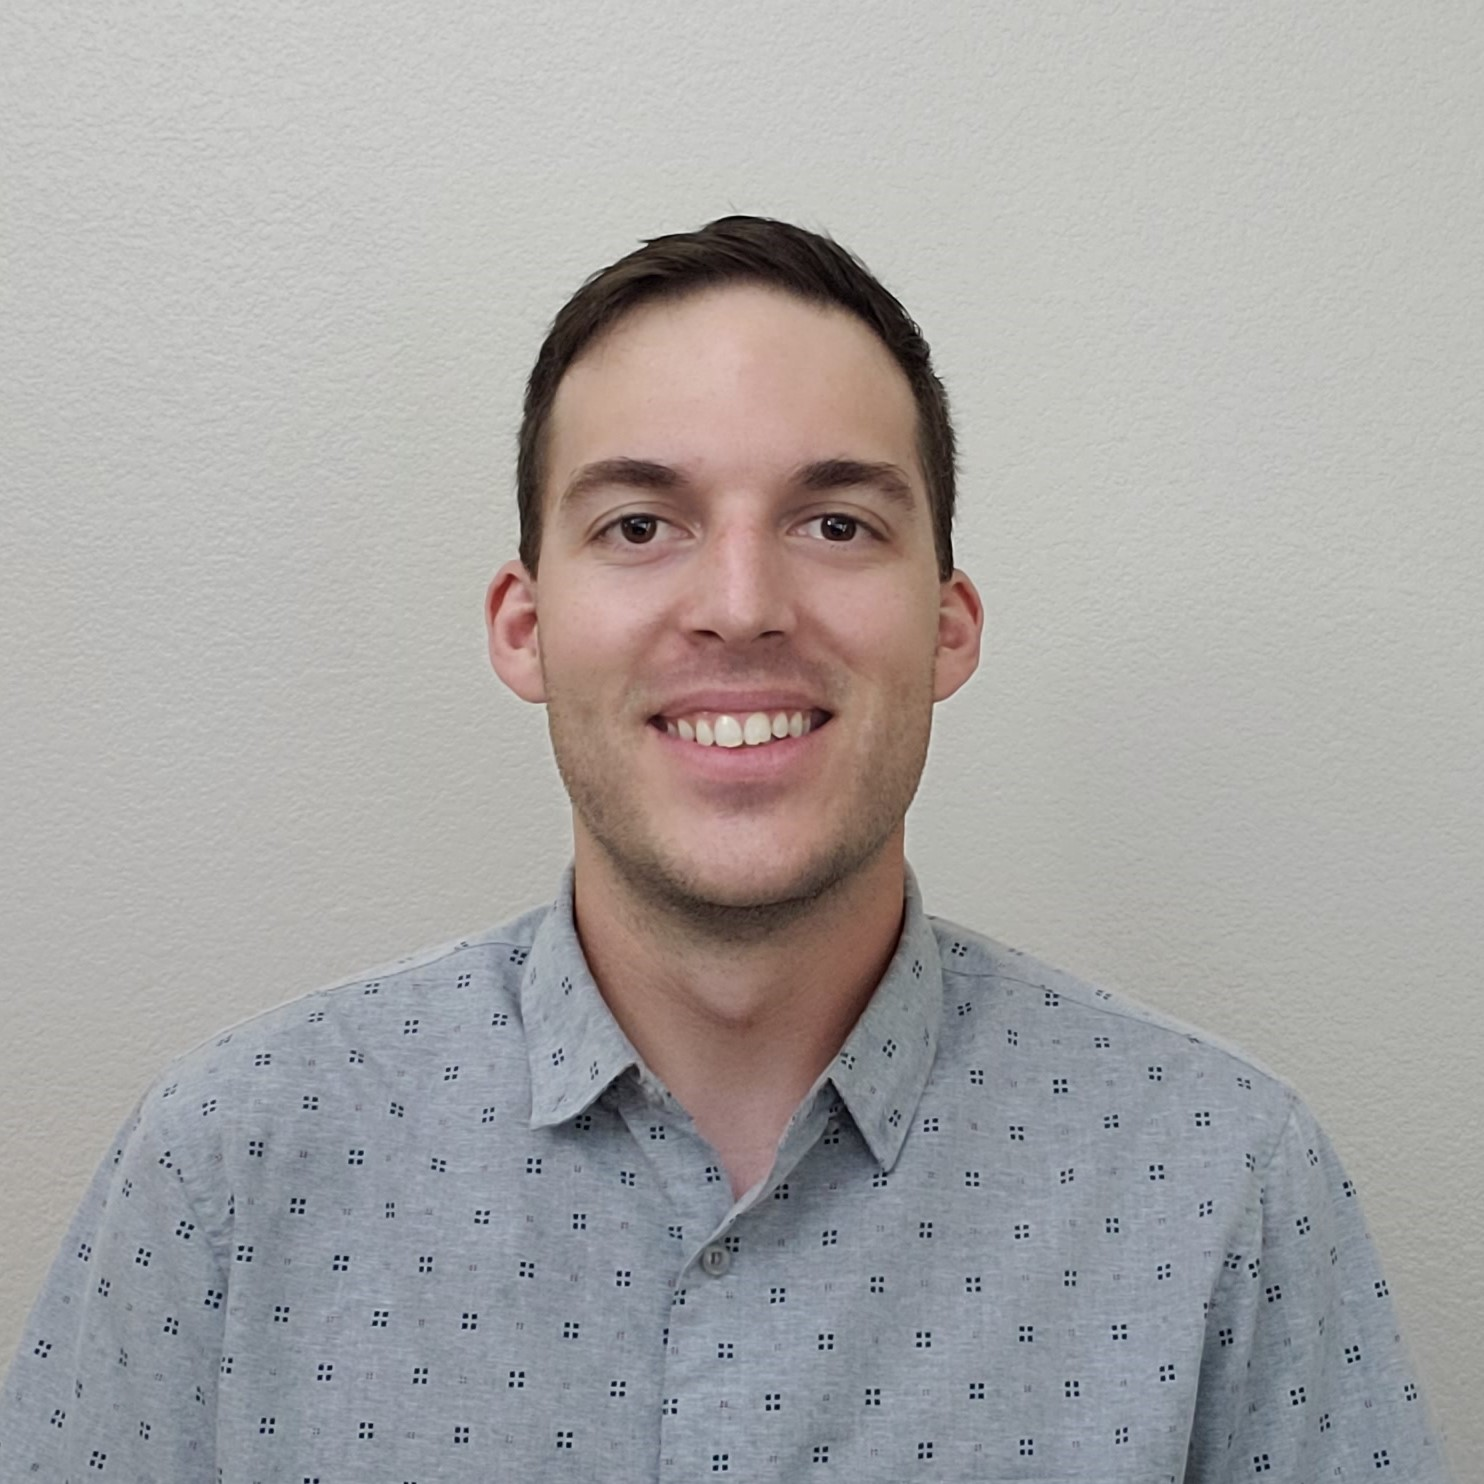
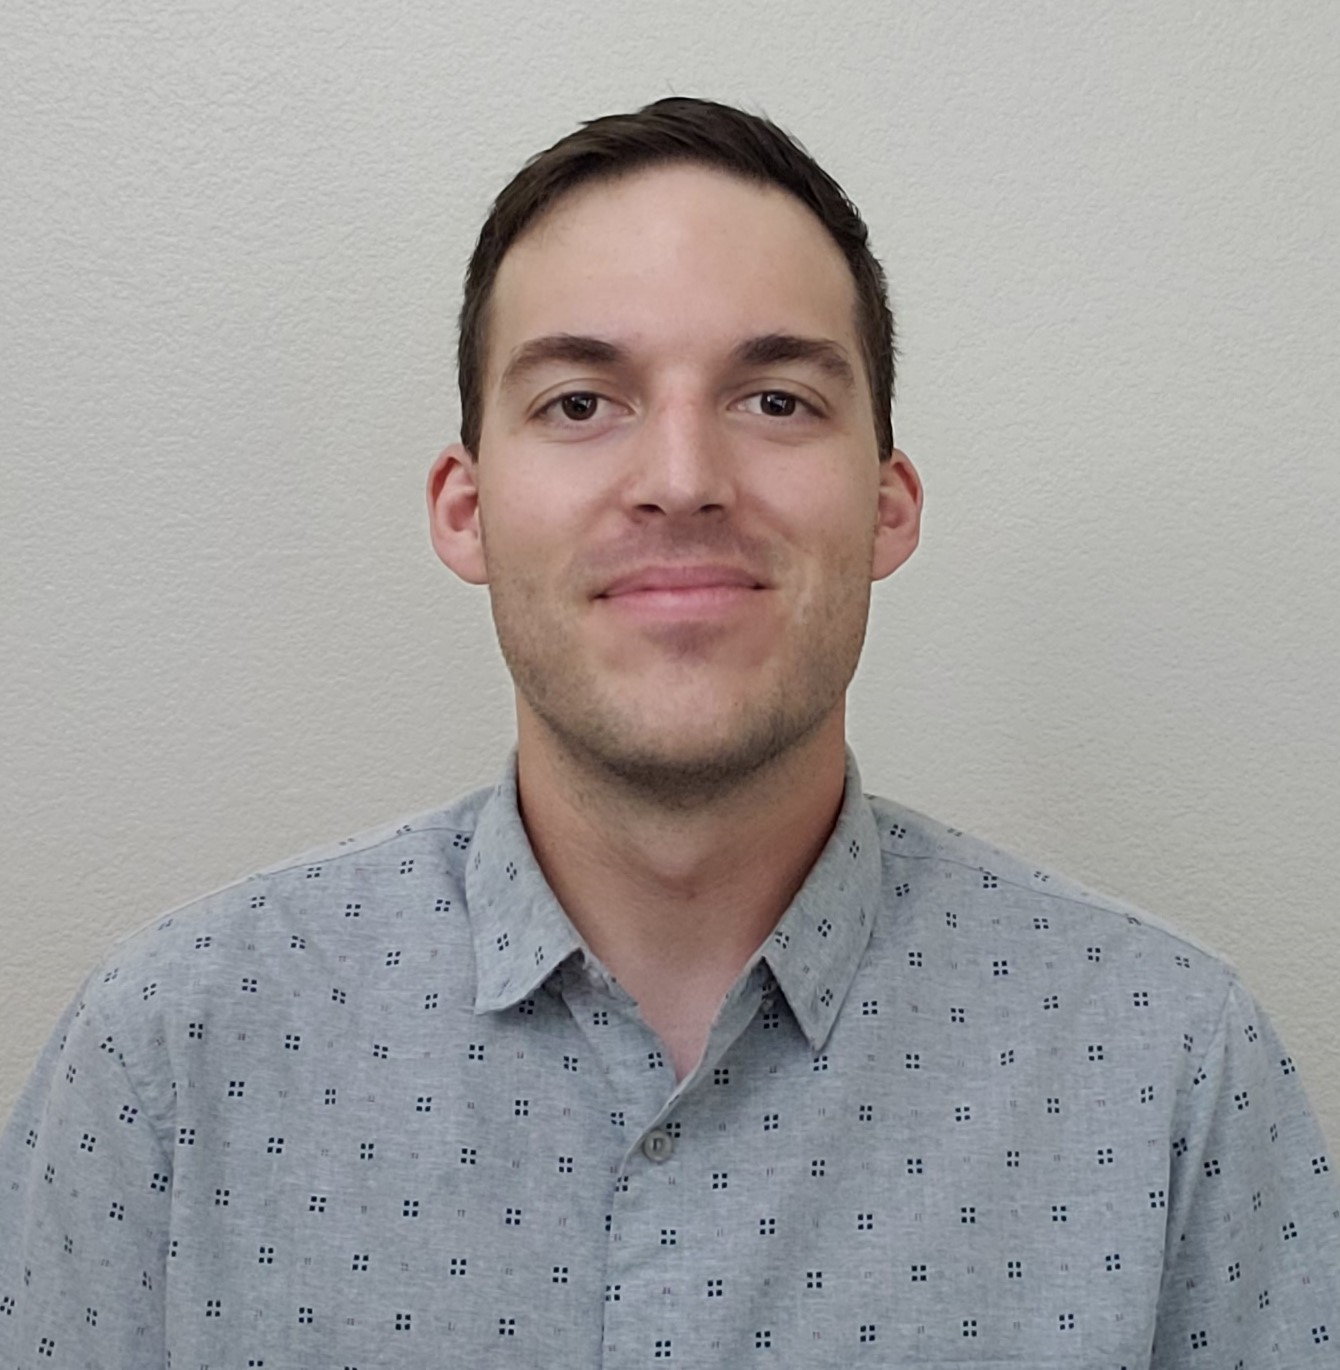
for real -EOD push

diff --git a/assets/css/main.css b/assets/css/main.css
@@ -489,10 +489,10 @@ footer > p {
 	/* background-blend-mode: overlay; */
 	/* background-size: cover; */
 	/* background-color: var(--headerBackground); */
-	background-image: url('/images/home-2.png');
+	background-image: url('/images/home-3.png');
 	background-blend-mode: hard-light;
 	background-size: cover;
-	background-position: 0% 7%;
+	background-position: 0% 0%;
 	border-bottom: 5px solid var(--accentBorderColor);
 	/* transition: background 0.3s ease-in-out; */
 }
@@ -1838,12 +1838,12 @@ footer > p {
 .flex img {
 }
 
-.topProject {
+.top-project {
 	/* flex-grow: 2; */
 	flex-basis: 100%;
 	max-width: 1000px;
 }
-.musicMatters {
+.music-matters {
 	height: 100% !important;
 }
 /* Form */
@@ -2358,7 +2358,7 @@ ul.actions li:first-child {
 	/* max-height: 400px; */
 	/* overflow: hidden; */
 }
-.githubStats {
+.github-stats {
 	display: flex;
 	flex-direction: column;
 	justify-content: center;
@@ -2374,8 +2374,8 @@ ul.actions li:first-child {
 .stats img {
 	height: 170px;
 }
-/* .githubStats div,
-.githubStats > *:first-child {
+/* .github-stats div,
+.github-stats > *:first-child {
 	align-self: center;
 } */
 /* Icons */
@@ -2578,7 +2578,7 @@ ul.actions li:first-child {
 	border-bottom: 5px solid var(--accentBorderColor);
 	text-align: center;
 	background-color: var(--darkGrey);
-	background-image: url('/images/nav.png');
+	background-image: url('/images/nav-1.png');
 	background-position: 25% 50%;
 	background-repeat: no-repeat;
 	background-size: cover;
@@ -2628,7 +2628,7 @@ ul.container {
 	background: #070b1c;
 }
 
-.navWrapper #nav:not(::before) {
+.nav-wrapper #nav:not(::before) {
 	opacity: 0;
 
 	position: absolute;
@@ -2643,10 +2643,10 @@ ul.container {
 	animation: comeIn 2s ease-in-out;
 	/* transform: translateY(-100px); */
 }
-.navWrapper::before {
+.nav-wrapper::before {
 	/* z-index: -1; */
 }
-.navWrapper::after {
+.nav-wrapper::after {
 	/* opacity: 1; */
 	/* opacity: 0; */
 	/* opacity: 75%; */
@@ -2666,7 +2666,7 @@ ul.container {
 		background-blend-mode: hard-light;
 	}
 }
-.navWrapper:hover {
+.nav-wrapper:hover {
 	opacity: 1;
 	/* position: absolute; */
 	background-color: var(--headerBackground);
@@ -2827,7 +2827,7 @@ body > article {
 	color: #777;
 }
 
-.projectFlavor {
+.project-flavor {
 	font-weight: 600;
 }
 /* Large */

diff --git a/index.html b/index.html
@@ -19,8 +19,8 @@
 
 <body >
 	<!-- Nav -->
-	<div class="navWrapper">
-		<nav id="nav" class="nav flex">
+	<div class="nav-wrapper">
+		<nav id="nav" class="flex">
 			<ul class="container">
 				<li><a href="#top">About</a></li>
 				<li><a href="#portfolio">Portfolio</a></li>
@@ -35,7 +35,7 @@
 		<div class="container">
 			<div class="row">
 				<div class="col-4 col-5-large col-12-medium">
-					<span class="image fit"><img src="images/pic02.jpg" alt="kyle" /></span>
+					<span class="image fit"><img src="images/me.jpg" alt="kyle" /></span>
 				</div>
 				<div class="col-8 col-7-large col-12-medium card">
 					<header>
@@ -63,10 +63,10 @@
 	<!-- Portfolio -->
 	<article id="portfolio" class="wrapper">
 		<div class="container projects">
-			<header class="githubStats">
+			<header class="github-stats">
 				<div>
 					<h2>Browse my recent deliveries.</h2>
-					<p class="projectFlavor">
+					<p class="project-flavor">
 						JavaScript | Node | React | HTML | CSS | SvelteKit | MongoDB | OOP
 						| JSON | Web Accessibility | TDD
 						<!-- | React Native| PostgreSQL -->
@@ -84,10 +84,10 @@
 				</div>
 			</header>
 			<div class="flex projectList">
-				<div class="topProject">
+				<div class="top-project">
 					<article class="box style2">
 						<a href="https://github.com/kylemettling/music-matters" class="image featured"><img
-							class="musicMatters"
+							class="music-matters"
 								src="images/music-matters.png" alt="" /></a>
 						<h3>
 							<a href="https://github.com/kylemettling/music-matters">Music Matters</a>
